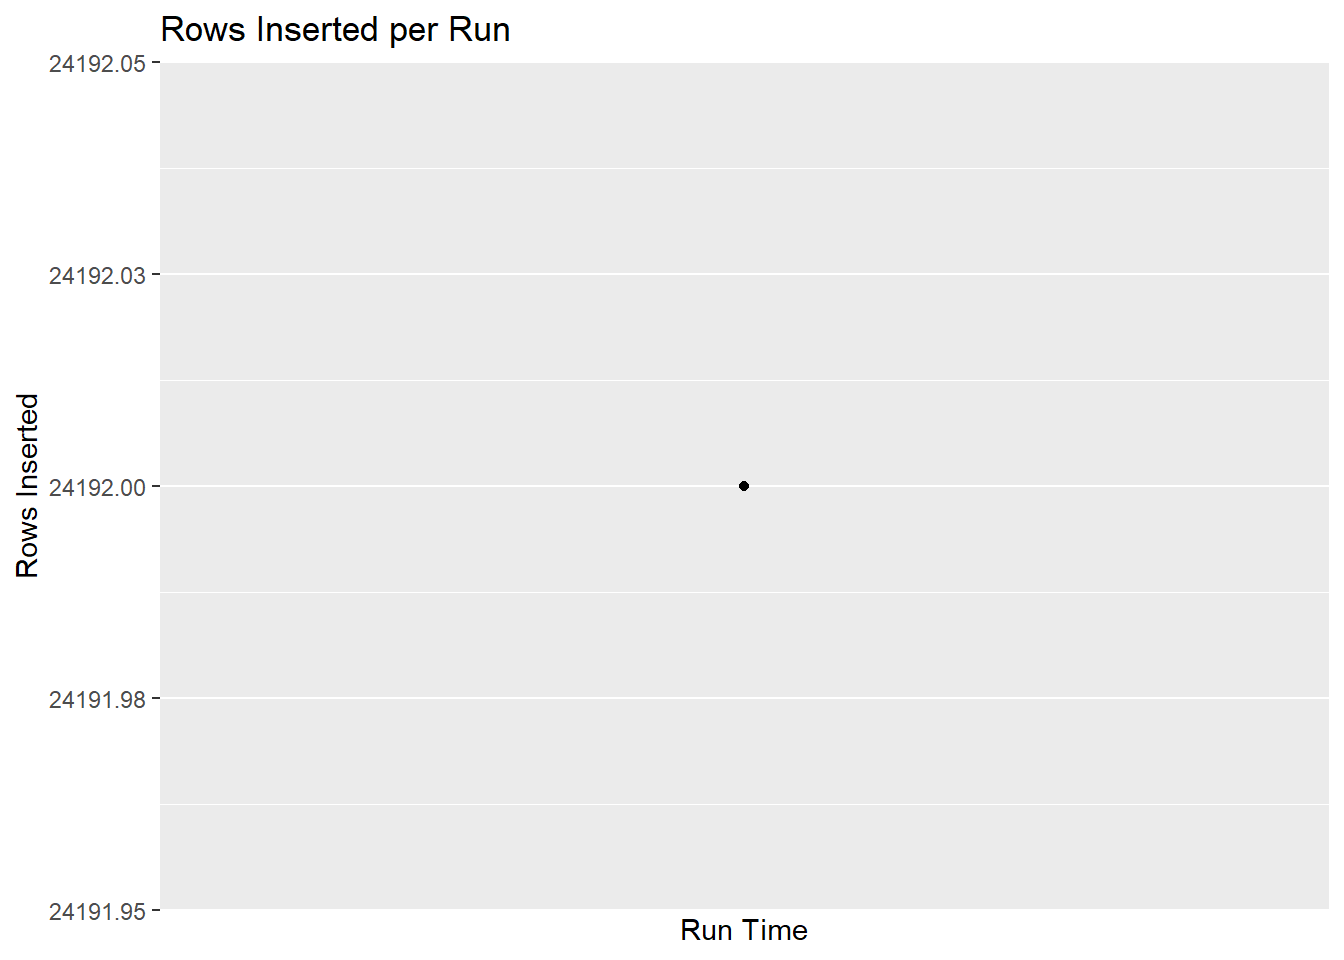
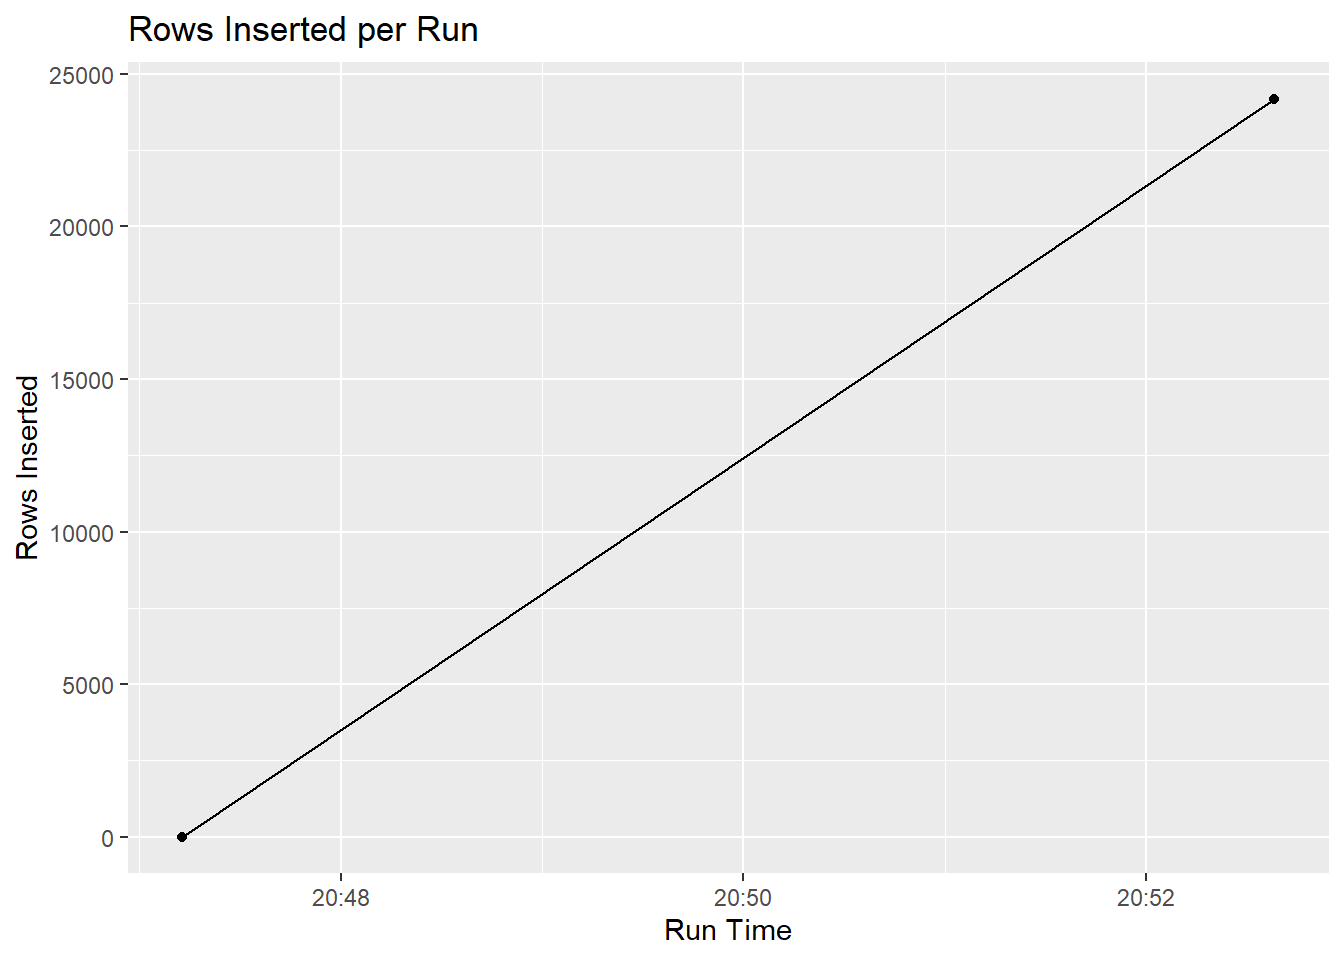
Corrected issues where database owner schema was not defined, causing errors on Posit Connect server, and changed staging table clearing workflow from TRUNCATE to DELETE to match irbs-posit SQL user permissions.
Includes test.qmd to list tables as test of irbs-posit permissions

diff --git a/append_fishtracks.html b/append_fishtracks.html
@@ -145,126 +145,151 @@ pre > code.sourceCode > span > a:first-child::before { text-decoration: underlin
 <span id="cb2-20"><a href="#cb2-20" aria-hidden="true" tabindex="-1"></a>  </span>
 <span id="cb2-21"><a href="#cb2-21" aria-hidden="true" tabindex="-1"></a>  <span class="fu">log_msg</span>(<span class="st">"Job started"</span>)</span>
 <span id="cb2-22"><a href="#cb2-22" aria-hidden="true" tabindex="-1"></a>  </span>
-<span id="cb2-23"><a href="#cb2-23" aria-hidden="true" tabindex="-1"></a>  <span class="co"># Connect to db</span></span>
-<span id="cb2-24"><a href="#cb2-24" aria-hidden="true" tabindex="-1"></a>  con <span class="ot">&lt;-</span> <span class="fu">dbConnect</span>(odbc<span class="sc">::</span><span class="fu">odbc</span>(), <span class="st">"Fish_Tracks_Real_Time"</span>)</span>
-<span id="cb2-25"><a href="#cb2-25" aria-hidden="true" tabindex="-1"></a>  <span class="fu">log_msg</span>(<span class="st">"Connected to database"</span>)</span>
-<span id="cb2-26"><a href="#cb2-26" aria-hidden="true" tabindex="-1"></a>  </span>
-<span id="cb2-27"><a href="#cb2-27" aria-hidden="true" tabindex="-1"></a>  <span class="co"># Get stations</span></span>
-<span id="cb2-28"><a href="#cb2-28" aria-hidden="true" tabindex="-1"></a>  tbl_station <span class="ot">&lt;-</span> <span class="fu">tbl</span>(con, <span class="st">"station"</span>) <span class="sc">%&gt;%</span> <span class="fu">collect</span>()</span>
-<span id="cb2-29"><a href="#cb2-29" aria-hidden="true" tabindex="-1"></a>  <span class="fu">log_msg</span>(<span class="fu">sprintf</span>(<span class="st">"Loaded %d stations"</span>, <span class="fu">nrow</span>(tbl_station)))</span>
-<span id="cb2-30"><a href="#cb2-30" aria-hidden="true" tabindex="-1"></a>  </span>
-<span id="cb2-31"><a href="#cb2-31" aria-hidden="true" tabindex="-1"></a>  </span>
-<span id="cb2-32"><a href="#cb2-32" aria-hidden="true" tabindex="-1"></a>  <span class="co"># Fetch data</span></span>
-<span id="cb2-33"><a href="#cb2-33" aria-hidden="true" tabindex="-1"></a>  DateRetrieved <span class="ot">=</span> <span class="fu">now</span>()</span>
-<span id="cb2-34"><a href="#cb2-34" aria-hidden="true" tabindex="-1"></a>  </span>
-<span id="cb2-35"><a href="#cb2-35" aria-hidden="true" tabindex="-1"></a>  </span>
-<span id="cb2-36"><a href="#cb2-36" aria-hidden="true" tabindex="-1"></a>  <span class="fu">log_msg</span>(<span class="st">"Fetching FishTracks data"</span>)</span>
-<span id="cb2-37"><a href="#cb2-37" aria-hidden="true" tabindex="-1"></a>  </span>
-<span id="cb2-38"><a href="#cb2-38" aria-hidden="true" tabindex="-1"></a>  compiled <span class="ot">&lt;-</span> <span class="fu">map_df</span>(tbl_station<span class="sc">$</span>station_id, <span class="cf">function</span>(id) {</span>
-<span id="cb2-39"><a href="#cb2-39" aria-hidden="true" tabindex="-1"></a>  <span class="fu">tryCatch</span>(</span>
-<span id="cb2-40"><a href="#cb2-40" aria-hidden="true" tabindex="-1"></a>    <span class="fu">get_fishtracks</span>(id),</span>
-<span id="cb2-41"><a href="#cb2-41" aria-hidden="true" tabindex="-1"></a>    <span class="at">error =</span> <span class="cf">function</span>(e) {</span>
-<span id="cb2-42"><a href="#cb2-42" aria-hidden="true" tabindex="-1"></a>      <span class="fu">log_msg</span>(<span class="fu">paste</span>(<span class="st">"Station failed:"</span>, id, <span class="st">"|"</span>, e<span class="sc">$</span>message), <span class="st">"WARN"</span>)</span>
-<span id="cb2-43"><a href="#cb2-43" aria-hidden="true" tabindex="-1"></a>      <span class="fu">return</span>(<span class="cn">NULL</span>)</span>
-<span id="cb2-44"><a href="#cb2-44" aria-hidden="true" tabindex="-1"></a>    }</span>
-<span id="cb2-45"><a href="#cb2-45" aria-hidden="true" tabindex="-1"></a>  )</span>
-<span id="cb2-46"><a href="#cb2-46" aria-hidden="true" tabindex="-1"></a>}) <span class="sc">%&gt;%</span></span>
-<span id="cb2-47"><a href="#cb2-47" aria-hidden="true" tabindex="-1"></a>    <span class="fu">mutate</span>(</span>
-<span id="cb2-48"><a href="#cb2-48" aria-hidden="true" tabindex="-1"></a>      <span class="at">DateRetrieved =</span> DateRetrieved,</span>
-<span id="cb2-49"><a href="#cb2-49" aria-hidden="true" tabindex="-1"></a>      <span class="at">DetectionID =</span> <span class="fu">paste</span>(station_id, Record, <span class="at">sep =</span> <span class="st">'_'</span>)</span>
-<span id="cb2-50"><a href="#cb2-50" aria-hidden="true" tabindex="-1"></a>    ) <span class="sc">%&gt;%</span></span>
-<span id="cb2-51"><a href="#cb2-51" aria-hidden="true" tabindex="-1"></a>    <span class="fu">relocate</span>(DetectionID)</span>
+<span id="cb2-23"><a href="#cb2-23" aria-hidden="true" tabindex="-1"></a>  <span class="co"># Connect to db, with intuitive error handling</span></span>
+<span id="cb2-24"><a href="#cb2-24" aria-hidden="true" tabindex="-1"></a>con <span class="ot">&lt;-</span> <span class="fu">tryCatch</span>({</span>
+<span id="cb2-25"><a href="#cb2-25" aria-hidden="true" tabindex="-1"></a></span>
+<span id="cb2-26"><a href="#cb2-26" aria-hidden="true" tabindex="-1"></a>  <span class="fu">dbConnect</span>(odbc<span class="sc">::</span><span class="fu">odbc</span>(), <span class="st">"Fish_Tracks_Real_Time"</span>)</span>
+<span id="cb2-27"><a href="#cb2-27" aria-hidden="true" tabindex="-1"></a></span>
+<span id="cb2-28"><a href="#cb2-28" aria-hidden="true" tabindex="-1"></a>}, <span class="at">error =</span> <span class="cf">function</span>(e) {</span>
+<span id="cb2-29"><a href="#cb2-29" aria-hidden="true" tabindex="-1"></a></span>
+<span id="cb2-30"><a href="#cb2-30" aria-hidden="true" tabindex="-1"></a>  <span class="fu">log_msg</span>(<span class="st">"Database connection failed"</span>, <span class="st">"ERROR"</span>)</span>
+<span id="cb2-31"><a href="#cb2-31" aria-hidden="true" tabindex="-1"></a></span>
+<span id="cb2-32"><a href="#cb2-32" aria-hidden="true" tabindex="-1"></a>  <span class="fu">log_msg</span>(<span class="fu">paste</span>(<span class="st">"ODBC error:"</span>, e<span class="sc">$</span>message), <span class="st">"ERROR"</span>)</span>
+<span id="cb2-33"><a href="#cb2-33" aria-hidden="true" tabindex="-1"></a></span>
+<span id="cb2-34"><a href="#cb2-34" aria-hidden="true" tabindex="-1"></a>  <span class="fu">stop</span>(</span>
+<span id="cb2-35"><a href="#cb2-35" aria-hidden="true" tabindex="-1"></a>    <span class="fu">paste</span>(</span>
+<span id="cb2-36"><a href="#cb2-36" aria-hidden="true" tabindex="-1"></a>      <span class="st">"Failed to connect to DSN 'Fish_Tracks_Real_Time'."</span>,</span>
+<span id="cb2-37"><a href="#cb2-37" aria-hidden="true" tabindex="-1"></a>      <span class="st">"Possible causes:"</span>,</span>
+<span id="cb2-38"><a href="#cb2-38" aria-hidden="true" tabindex="-1"></a>      <span class="st">"- DSN not defined on server"</span>,</span>
+<span id="cb2-39"><a href="#cb2-39" aria-hidden="true" tabindex="-1"></a>      <span class="st">"- Network / VPN issue"</span>,</span>
+<span id="cb2-40"><a href="#cb2-40" aria-hidden="true" tabindex="-1"></a>      <span class="st">"- SQL Server unavailable"</span>,</span>
+<span id="cb2-41"><a href="#cb2-41" aria-hidden="true" tabindex="-1"></a>      <span class="st">"- Credentials issue"</span>,</span>
+<span id="cb2-42"><a href="#cb2-42" aria-hidden="true" tabindex="-1"></a>      <span class="st">"</span><span class="sc">\n</span><span class="st">Original error:"</span>, e<span class="sc">$</span>message</span>
+<span id="cb2-43"><a href="#cb2-43" aria-hidden="true" tabindex="-1"></a>    )</span>
+<span id="cb2-44"><a href="#cb2-44" aria-hidden="true" tabindex="-1"></a>  )</span>
+<span id="cb2-45"><a href="#cb2-45" aria-hidden="true" tabindex="-1"></a>})</span>
+<span id="cb2-46"><a href="#cb2-46" aria-hidden="true" tabindex="-1"></a>  <span class="fu">log_msg</span>(<span class="st">"Connected to database"</span>)</span>
+<span id="cb2-47"><a href="#cb2-47" aria-hidden="true" tabindex="-1"></a>  </span>
+<span id="cb2-48"><a href="#cb2-48" aria-hidden="true" tabindex="-1"></a>  <span class="co"># Get stations</span></span>
+<span id="cb2-49"><a href="#cb2-49" aria-hidden="true" tabindex="-1"></a>  tbl_station <span class="ot">&lt;-</span> <span class="fu">tbl</span>(con, <span class="fu">Id</span>(<span class="at">schema =</span> <span class="st">'dbo'</span>, <span class="at">table =</span> <span class="st">"station"</span>)) <span class="sc">%&gt;%</span> <span class="fu">collect</span>()</span>
+<span id="cb2-50"><a href="#cb2-50" aria-hidden="true" tabindex="-1"></a>  <span class="fu">log_msg</span>(<span class="fu">sprintf</span>(<span class="st">"Loaded %d stations"</span>, <span class="fu">nrow</span>(tbl_station)))</span>
+<span id="cb2-51"><a href="#cb2-51" aria-hidden="true" tabindex="-1"></a>  </span>
 <span id="cb2-52"><a href="#cb2-52" aria-hidden="true" tabindex="-1"></a>  </span>
-<span id="cb2-53"><a href="#cb2-53" aria-hidden="true" tabindex="-1"></a>  </span>
-<span id="cb2-54"><a href="#cb2-54" aria-hidden="true" tabindex="-1"></a>  <span class="fu">log_msg</span>(<span class="fu">sprintf</span>(<span class="st">"Retrieved %d new records"</span>, <span class="fu">nrow</span>(compiled)))</span>
+<span id="cb2-53"><a href="#cb2-53" aria-hidden="true" tabindex="-1"></a>  <span class="co"># Fetch data</span></span>
+<span id="cb2-54"><a href="#cb2-54" aria-hidden="true" tabindex="-1"></a>  DateRetrieved <span class="ot">=</span> <span class="fu">now</span>()</span>
 <span id="cb2-55"><a href="#cb2-55" aria-hidden="true" tabindex="-1"></a>  </span>
-<span id="cb2-56"><a href="#cb2-56" aria-hidden="true" tabindex="-1"></a>  <span class="co"># Write new data to staging table</span></span>
-<span id="cb2-57"><a href="#cb2-57" aria-hidden="true" tabindex="-1"></a>  <span class="fu">dbWriteTable</span>(con,</span>
-<span id="cb2-58"><a href="#cb2-58" aria-hidden="true" tabindex="-1"></a>               <span class="at">name =</span> <span class="st">"staging_event"</span>,</span>
-<span id="cb2-59"><a href="#cb2-59" aria-hidden="true" tabindex="-1"></a>               <span class="at">value =</span> compiled,</span>
-<span id="cb2-60"><a href="#cb2-60" aria-hidden="true" tabindex="-1"></a>               <span class="at">overwrite =</span> <span class="cn">TRUE</span>)</span>
-<span id="cb2-61"><a href="#cb2-61" aria-hidden="true" tabindex="-1"></a>  </span>
-<span id="cb2-62"><a href="#cb2-62" aria-hidden="true" tabindex="-1"></a>  </span>
-<span id="cb2-63"><a href="#cb2-63" aria-hidden="true" tabindex="-1"></a>  <span class="fu">log_msg</span>(<span class="st">"Wrote staging table"</span>)</span>
-<span id="cb2-64"><a href="#cb2-64" aria-hidden="true" tabindex="-1"></a>  </span>
-<span id="cb2-65"><a href="#cb2-65" aria-hidden="true" tabindex="-1"></a>  <span class="co"># Append only new rows to events table</span></span>
-<span id="cb2-66"><a href="#cb2-66" aria-hidden="true" tabindex="-1"></a>  append_sql <span class="ot">&lt;-</span> <span class="st">"</span></span>
-<span id="cb2-67"><a href="#cb2-67" aria-hidden="true" tabindex="-1"></a><span class="st">INSERT INTO event</span></span>
-<span id="cb2-68"><a href="#cb2-68" aria-hidden="true" tabindex="-1"></a><span class="st">SELECT *</span></span>
-<span id="cb2-69"><a href="#cb2-69" aria-hidden="true" tabindex="-1"></a><span class="st">  FROM staging_event s</span></span>
-<span id="cb2-70"><a href="#cb2-70" aria-hidden="true" tabindex="-1"></a><span class="st">WHERE NOT EXISTS (SELECT 1</span></span>
-<span id="cb2-71"><a href="#cb2-71" aria-hidden="true" tabindex="-1"></a><span class="st">  FROM event t</span></span>
-<span id="cb2-72"><a href="#cb2-72" aria-hidden="true" tabindex="-1"></a><span class="st">  WHERE t.DetectionID = s.DetectionID)</span></span>
-<span id="cb2-73"><a href="#cb2-73" aria-hidden="true" tabindex="-1"></a></span>
-<span id="cb2-74"><a href="#cb2-74" aria-hidden="true" tabindex="-1"></a><span class="st">"</span></span>
-<span id="cb2-75"><a href="#cb2-75" aria-hidden="true" tabindex="-1"></a>  </span>
-<span id="cb2-76"><a href="#cb2-76" aria-hidden="true" tabindex="-1"></a>  rows_retrieved <span class="ot">&lt;-</span> <span class="fu">nrow</span>(compiled)</span>
-<span id="cb2-77"><a href="#cb2-77" aria-hidden="true" tabindex="-1"></a>  rows_inserted <span class="ot">&lt;-</span> <span class="fu">as.integer</span>(<span class="fu">dbExecute</span>(con, append_sql))</span>
-<span id="cb2-78"><a href="#cb2-78" aria-hidden="true" tabindex="-1"></a>  rows_skipped <span class="ot">&lt;-</span> rows_retrieved <span class="sc">-</span> rows_inserted</span>
-<span id="cb2-79"><a href="#cb2-79" aria-hidden="true" tabindex="-1"></a>  stations_retrieved <span class="ot">&lt;-</span> <span class="fu">length</span>(<span class="fu">unique</span>(compiled<span class="sc">$</span>station_id))</span>
-<span id="cb2-80"><a href="#cb2-80" aria-hidden="true" tabindex="-1"></a>  stations_lacking_data <span class="ot">&lt;-</span> <span class="fu">setdiff</span>(tbl_station<span class="sc">$</span>station_id, <span class="fu">unique</span>(compiled<span class="sc">$</span>station_id))</span>
-<span id="cb2-81"><a href="#cb2-81" aria-hidden="true" tabindex="-1"></a>  </span>
-<span id="cb2-82"><a href="#cb2-82" aria-hidden="true" tabindex="-1"></a>  timestamp <span class="ot">&lt;-</span> <span class="fu">Sys.time</span>()</span>
-<span id="cb2-83"><a href="#cb2-83" aria-hidden="true" tabindex="-1"></a>  </span>
-<span id="cb2-84"><a href="#cb2-84" aria-hidden="true" tabindex="-1"></a>  <span class="fu">log_msg</span>(<span class="fu">sprintf</span>(<span class="st">"Rows retrieved: %d"</span>, rows_retrieved))</span>
-<span id="cb2-85"><a href="#cb2-85" aria-hidden="true" tabindex="-1"></a>  <span class="fu">log_msg</span>(<span class="fu">sprintf</span>(<span class="st">"Rows inserted: %d"</span>, rows_inserted))</span>
-<span id="cb2-86"><a href="#cb2-86" aria-hidden="true" tabindex="-1"></a>  <span class="fu">log_msg</span>(<span class="fu">sprintf</span>(<span class="st">"Rows skipped: %d"</span>, rows_skipped))</span>
-<span id="cb2-87"><a href="#cb2-87" aria-hidden="true" tabindex="-1"></a>  <span class="fu">log_msg</span>(<span class="fu">sprintf</span>(<span class="st">"Stations retrieved: %d/%d"</span>, stations_retrieved, <span class="fu">length</span>(tbl_station<span class="sc">$</span>station_id)))  </span>
-<span id="cb2-88"><a href="#cb2-88" aria-hidden="true" tabindex="-1"></a>  <span class="fu">log_msg</span>(<span class="fu">paste</span>(<span class="st">"Station IDs not retrieved: "</span>, stations_lacking_data))</span>
-<span id="cb2-89"><a href="#cb2-89" aria-hidden="true" tabindex="-1"></a></span>
-<span id="cb2-90"><a href="#cb2-90" aria-hidden="true" tabindex="-1"></a></span>
-<span id="cb2-91"><a href="#cb2-91" aria-hidden="true" tabindex="-1"></a>  </span>
-<span id="cb2-92"><a href="#cb2-92" aria-hidden="true" tabindex="-1"></a>  <span class="co"># Log run to SQL log table</span></span>
-<span id="cb2-93"><a href="#cb2-93" aria-hidden="true" tabindex="-1"></a>  </span>
-<span id="cb2-94"><a href="#cb2-94" aria-hidden="true" tabindex="-1"></a><span class="fu">dbExecute</span>(</span>
-<span id="cb2-95"><a href="#cb2-95" aria-hidden="true" tabindex="-1"></a>  con,</span>
-<span id="cb2-96"><a href="#cb2-96" aria-hidden="true" tabindex="-1"></a>  <span class="st">"INSERT INTO insert_log (run_time, rows_inserted, rows_skipped) VALUES (?, ?, ?)"</span>,</span>
-<span id="cb2-97"><a href="#cb2-97" aria-hidden="true" tabindex="-1"></a>  <span class="at">params =</span> <span class="fu">list</span>(timestamp, rows_inserted, rows_skipped)</span>
-<span id="cb2-98"><a href="#cb2-98" aria-hidden="true" tabindex="-1"></a>)</span>
-<span id="cb2-99"><a href="#cb2-99" aria-hidden="true" tabindex="-1"></a></span>
+<span id="cb2-56"><a href="#cb2-56" aria-hidden="true" tabindex="-1"></a>  </span>
+<span id="cb2-57"><a href="#cb2-57" aria-hidden="true" tabindex="-1"></a>  <span class="fu">log_msg</span>(<span class="st">"Fetching FishTracks data"</span>)</span>
+<span id="cb2-58"><a href="#cb2-58" aria-hidden="true" tabindex="-1"></a>  </span>
+<span id="cb2-59"><a href="#cb2-59" aria-hidden="true" tabindex="-1"></a>  compiled <span class="ot">&lt;-</span> <span class="fu">map_df</span>(tbl_station<span class="sc">$</span>station_id, <span class="cf">function</span>(id) {</span>
+<span id="cb2-60"><a href="#cb2-60" aria-hidden="true" tabindex="-1"></a>  <span class="fu">tryCatch</span>(</span>
+<span id="cb2-61"><a href="#cb2-61" aria-hidden="true" tabindex="-1"></a>    <span class="fu">get_fishtracks</span>(id),</span>
+<span id="cb2-62"><a href="#cb2-62" aria-hidden="true" tabindex="-1"></a>    <span class="at">error =</span> <span class="cf">function</span>(e) {</span>
+<span id="cb2-63"><a href="#cb2-63" aria-hidden="true" tabindex="-1"></a>      <span class="fu">log_msg</span>(<span class="fu">paste</span>(<span class="st">"Station failed:"</span>, id, <span class="st">"|"</span>, e<span class="sc">$</span>message), <span class="st">"WARN"</span>)</span>
+<span id="cb2-64"><a href="#cb2-64" aria-hidden="true" tabindex="-1"></a>      <span class="fu">return</span>(<span class="cn">NULL</span>)</span>
+<span id="cb2-65"><a href="#cb2-65" aria-hidden="true" tabindex="-1"></a>    }</span>
+<span id="cb2-66"><a href="#cb2-66" aria-hidden="true" tabindex="-1"></a>  )</span>
+<span id="cb2-67"><a href="#cb2-67" aria-hidden="true" tabindex="-1"></a>}) <span class="sc">%&gt;%</span></span>
+<span id="cb2-68"><a href="#cb2-68" aria-hidden="true" tabindex="-1"></a>    <span class="fu">mutate</span>(</span>
+<span id="cb2-69"><a href="#cb2-69" aria-hidden="true" tabindex="-1"></a>      <span class="at">DateRetrieved =</span> DateRetrieved,</span>
+<span id="cb2-70"><a href="#cb2-70" aria-hidden="true" tabindex="-1"></a>      <span class="at">DetectionID =</span> <span class="fu">paste</span>(station_id, Record, <span class="at">sep =</span> <span class="st">'_'</span>)</span>
+<span id="cb2-71"><a href="#cb2-71" aria-hidden="true" tabindex="-1"></a>    ) <span class="sc">%&gt;%</span></span>
+<span id="cb2-72"><a href="#cb2-72" aria-hidden="true" tabindex="-1"></a>    <span class="fu">relocate</span>(DetectionID)</span>
+<span id="cb2-73"><a href="#cb2-73" aria-hidden="true" tabindex="-1"></a>  </span>
+<span id="cb2-74"><a href="#cb2-74" aria-hidden="true" tabindex="-1"></a>  </span>
+<span id="cb2-75"><a href="#cb2-75" aria-hidden="true" tabindex="-1"></a>  <span class="fu">log_msg</span>(<span class="fu">sprintf</span>(<span class="st">"Retrieved %d new records"</span>, <span class="fu">nrow</span>(compiled)))</span>
+<span id="cb2-76"><a href="#cb2-76" aria-hidden="true" tabindex="-1"></a>  </span>
+<span id="cb2-77"><a href="#cb2-77" aria-hidden="true" tabindex="-1"></a>  <span class="co"># Clear the staging table</span></span>
+<span id="cb2-78"><a href="#cb2-78" aria-hidden="true" tabindex="-1"></a>  <span class="fu">dbExecute</span>(con, <span class="st">"TRUNCATE TABLE dbo.staging_event"</span>)</span>
+<span id="cb2-79"><a href="#cb2-79" aria-hidden="true" tabindex="-1"></a>  <span class="co"># Write new data to staging table</span></span>
+<span id="cb2-80"><a href="#cb2-80" aria-hidden="true" tabindex="-1"></a><span class="fu">dbWriteTable</span>(</span>
+<span id="cb2-81"><a href="#cb2-81" aria-hidden="true" tabindex="-1"></a>  con,</span>
+<span id="cb2-82"><a href="#cb2-82" aria-hidden="true" tabindex="-1"></a>  <span class="fu">Id</span>(<span class="at">schema=</span><span class="st">"dbo"</span>, <span class="at">table=</span><span class="st">"staging_event"</span>),</span>
+<span id="cb2-83"><a href="#cb2-83" aria-hidden="true" tabindex="-1"></a>  <span class="at">value =</span> compiled,</span>
+<span id="cb2-84"><a href="#cb2-84" aria-hidden="true" tabindex="-1"></a>  <span class="at">append =</span> <span class="cn">TRUE</span></span>
+<span id="cb2-85"><a href="#cb2-85" aria-hidden="true" tabindex="-1"></a>)</span>
+<span id="cb2-86"><a href="#cb2-86" aria-hidden="true" tabindex="-1"></a>  </span>
+<span id="cb2-87"><a href="#cb2-87" aria-hidden="true" tabindex="-1"></a>  </span>
+<span id="cb2-88"><a href="#cb2-88" aria-hidden="true" tabindex="-1"></a>  <span class="fu">log_msg</span>(<span class="st">"Wrote staging table"</span>)</span>
+<span id="cb2-89"><a href="#cb2-89" aria-hidden="true" tabindex="-1"></a>  </span>
+<span id="cb2-90"><a href="#cb2-90" aria-hidden="true" tabindex="-1"></a>  <span class="co"># Append only new rows to events table</span></span>
+<span id="cb2-91"><a href="#cb2-91" aria-hidden="true" tabindex="-1"></a>  append_sql <span class="ot">&lt;-</span> <span class="st">"</span></span>
+<span id="cb2-92"><a href="#cb2-92" aria-hidden="true" tabindex="-1"></a><span class="st">INSERT INTO dbo.event</span></span>
+<span id="cb2-93"><a href="#cb2-93" aria-hidden="true" tabindex="-1"></a><span class="st">SELECT *</span></span>
+<span id="cb2-94"><a href="#cb2-94" aria-hidden="true" tabindex="-1"></a><span class="st">  FROM dbo.staging_event s</span></span>
+<span id="cb2-95"><a href="#cb2-95" aria-hidden="true" tabindex="-1"></a><span class="st">WHERE NOT EXISTS (SELECT 1</span></span>
+<span id="cb2-96"><a href="#cb2-96" aria-hidden="true" tabindex="-1"></a><span class="st">  FROM dbo.event t</span></span>
+<span id="cb2-97"><a href="#cb2-97" aria-hidden="true" tabindex="-1"></a><span class="st">  WHERE t.DetectionID = s.DetectionID)</span></span>
+<span id="cb2-98"><a href="#cb2-98" aria-hidden="true" tabindex="-1"></a></span>
+<span id="cb2-99"><a href="#cb2-99" aria-hidden="true" tabindex="-1"></a><span class="st">"</span></span>
 <span id="cb2-100"><a href="#cb2-100" aria-hidden="true" tabindex="-1"></a>  </span>
-<span id="cb2-101"><a href="#cb2-101" aria-hidden="true" tabindex="-1"></a>  </span>
-<span id="cb2-102"><a href="#cb2-102" aria-hidden="true" tabindex="-1"></a>  <span class="fu">log_msg</span>(<span class="st">"Logged run to database"</span>)</span>
-<span id="cb2-103"><a href="#cb2-103" aria-hidden="true" tabindex="-1"></a>  <span class="fu">log_msg</span>(<span class="st">"Job completed successfully"</span>, <span class="st">"SUCCESS"</span>)</span>
-<span id="cb2-104"><a href="#cb2-104" aria-hidden="true" tabindex="-1"></a>},</span>
-<span id="cb2-105"><a href="#cb2-105" aria-hidden="true" tabindex="-1"></a></span>
-<span id="cb2-106"><a href="#cb2-106" aria-hidden="true" tabindex="-1"></a><span class="co"># Handle errors with useful logging</span></span>
-<span id="cb2-107"><a href="#cb2-107" aria-hidden="true" tabindex="-1"></a><span class="at">error =</span> <span class="cf">function</span>(e){</span>
-<span id="cb2-108"><a href="#cb2-108" aria-hidden="true" tabindex="-1"></a></span>
-<span id="cb2-109"><a href="#cb2-109" aria-hidden="true" tabindex="-1"></a>  <span class="fu">log_msg</span>(<span class="fu">paste</span>(<span class="st">"ERROR:"</span>, e<span class="sc">$</span>message), <span class="st">"ERROR"</span>)</span>
-<span id="cb2-110"><a href="#cb2-110" aria-hidden="true" tabindex="-1"></a></span>
-<span id="cb2-111"><a href="#cb2-111" aria-hidden="true" tabindex="-1"></a>  <span class="co"># Safe defaults so logging doesn't fail</span></span>
-<span id="cb2-112"><a href="#cb2-112" aria-hidden="true" tabindex="-1"></a>  rows_inserted <span class="ot">&lt;&lt;-</span> <span class="cf">if</span> (<span class="sc">!</span><span class="fu">exists</span>(<span class="st">"rows_inserted"</span>)) <span class="cn">NA_integer_</span> <span class="cf">else</span> rows_inserted</span>
-<span id="cb2-113"><a href="#cb2-113" aria-hidden="true" tabindex="-1"></a>  rows_skipped  <span class="ot">&lt;&lt;-</span> <span class="cf">if</span> (<span class="sc">!</span><span class="fu">exists</span>(<span class="st">"rows_skipped"</span>))  <span class="cn">NA_integer_</span> <span class="cf">else</span> rows_skipped</span>
+<span id="cb2-101"><a href="#cb2-101" aria-hidden="true" tabindex="-1"></a>  rows_retrieved <span class="ot">&lt;-</span> <span class="fu">nrow</span>(compiled)</span>
+<span id="cb2-102"><a href="#cb2-102" aria-hidden="true" tabindex="-1"></a>  rows_inserted <span class="ot">&lt;-</span> <span class="fu">as.integer</span>(<span class="fu">dbExecute</span>(con, append_sql))</span>
+<span id="cb2-103"><a href="#cb2-103" aria-hidden="true" tabindex="-1"></a>  rows_skipped <span class="ot">&lt;-</span> rows_retrieved <span class="sc">-</span> rows_inserted</span>
+<span id="cb2-104"><a href="#cb2-104" aria-hidden="true" tabindex="-1"></a>  stations_retrieved <span class="ot">&lt;-</span> <span class="fu">length</span>(<span class="fu">unique</span>(compiled<span class="sc">$</span>station_id))</span>
+<span id="cb2-105"><a href="#cb2-105" aria-hidden="true" tabindex="-1"></a>  stations_lacking_data <span class="ot">&lt;-</span> <span class="fu">setdiff</span>(tbl_station<span class="sc">$</span>station_id, <span class="fu">unique</span>(compiled<span class="sc">$</span>station_id))</span>
+<span id="cb2-106"><a href="#cb2-106" aria-hidden="true" tabindex="-1"></a>  </span>
+<span id="cb2-107"><a href="#cb2-107" aria-hidden="true" tabindex="-1"></a>  timestamp <span class="ot">&lt;-</span> <span class="fu">Sys.time</span>()</span>
+<span id="cb2-108"><a href="#cb2-108" aria-hidden="true" tabindex="-1"></a>  </span>
+<span id="cb2-109"><a href="#cb2-109" aria-hidden="true" tabindex="-1"></a>  <span class="fu">log_msg</span>(<span class="fu">sprintf</span>(<span class="st">"Rows retrieved: %d"</span>, rows_retrieved))</span>
+<span id="cb2-110"><a href="#cb2-110" aria-hidden="true" tabindex="-1"></a>  <span class="fu">log_msg</span>(<span class="fu">sprintf</span>(<span class="st">"Rows inserted: %d"</span>, rows_inserted))</span>
+<span id="cb2-111"><a href="#cb2-111" aria-hidden="true" tabindex="-1"></a>  <span class="fu">log_msg</span>(<span class="fu">sprintf</span>(<span class="st">"Rows skipped: %d"</span>, rows_skipped))</span>
+<span id="cb2-112"><a href="#cb2-112" aria-hidden="true" tabindex="-1"></a>  <span class="fu">log_msg</span>(<span class="fu">sprintf</span>(<span class="st">"Stations retrieved: %d/%d"</span>, stations_retrieved, <span class="fu">length</span>(tbl_station<span class="sc">$</span>station_id)))  </span>
+<span id="cb2-113"><a href="#cb2-113" aria-hidden="true" tabindex="-1"></a>  <span class="fu">log_msg</span>(<span class="fu">paste</span>(<span class="st">"Station IDs not retrieved: "</span>, stations_lacking_data))</span>
 <span id="cb2-114"><a href="#cb2-114" aria-hidden="true" tabindex="-1"></a></span>
-<span id="cb2-115"><a href="#cb2-115" aria-hidden="true" tabindex="-1"></a>  <span class="co"># Try logging error to SQL</span></span>
-<span id="cb2-116"><a href="#cb2-116" aria-hidden="true" tabindex="-1"></a>  <span class="fu">try</span>({</span>
-<span id="cb2-117"><a href="#cb2-117" aria-hidden="true" tabindex="-1"></a>    <span class="cf">if</span> (<span class="fu">exists</span>(<span class="st">"con"</span>) <span class="sc">&amp;&amp;</span> <span class="fu">dbIsValid</span>(con)) {</span>
-<span id="cb2-118"><a href="#cb2-118" aria-hidden="true" tabindex="-1"></a></span>
-<span id="cb2-119"><a href="#cb2-119" aria-hidden="true" tabindex="-1"></a>      <span class="fu">dbExecute</span>(</span>
-<span id="cb2-120"><a href="#cb2-120" aria-hidden="true" tabindex="-1"></a>        con,</span>
-<span id="cb2-121"><a href="#cb2-121" aria-hidden="true" tabindex="-1"></a>        <span class="st">"INSERT INTO insert_log (run_time, rows_inserted, rows_skipped) VALUES (?, ?, ?)"</span>,</span>
-<span id="cb2-122"><a href="#cb2-122" aria-hidden="true" tabindex="-1"></a>        <span class="at">params =</span> <span class="fu">list</span>(<span class="fu">Sys.time</span>(), rows_inserted, rows_skipped)</span>
-<span id="cb2-123"><a href="#cb2-123" aria-hidden="true" tabindex="-1"></a>      )</span>
+<span id="cb2-115"><a href="#cb2-115" aria-hidden="true" tabindex="-1"></a></span>
+<span id="cb2-116"><a href="#cb2-116" aria-hidden="true" tabindex="-1"></a>  </span>
+<span id="cb2-117"><a href="#cb2-117" aria-hidden="true" tabindex="-1"></a>  <span class="co"># Log run to SQL log table</span></span>
+<span id="cb2-118"><a href="#cb2-118" aria-hidden="true" tabindex="-1"></a>  </span>
+<span id="cb2-119"><a href="#cb2-119" aria-hidden="true" tabindex="-1"></a><span class="fu">dbExecute</span>(</span>
+<span id="cb2-120"><a href="#cb2-120" aria-hidden="true" tabindex="-1"></a>  con,</span>
+<span id="cb2-121"><a href="#cb2-121" aria-hidden="true" tabindex="-1"></a>  <span class="st">"INSERT INTO dbo.insert_log (run_time, rows_inserted, rows_skipped) VALUES (?, ?, ?)"</span>,</span>
+<span id="cb2-122"><a href="#cb2-122" aria-hidden="true" tabindex="-1"></a>  <span class="at">params =</span> <span class="fu">list</span>(timestamp, rows_inserted, rows_skipped)</span>
+<span id="cb2-123"><a href="#cb2-123" aria-hidden="true" tabindex="-1"></a>)</span>
 <span id="cb2-124"><a href="#cb2-124" aria-hidden="true" tabindex="-1"></a></span>
-<span id="cb2-125"><a href="#cb2-125" aria-hidden="true" tabindex="-1"></a>      <span class="fu">dbDisconnect</span>(con)</span>
-<span id="cb2-126"><a href="#cb2-126" aria-hidden="true" tabindex="-1"></a>    }</span>
-<span id="cb2-127"><a href="#cb2-127" aria-hidden="true" tabindex="-1"></a>  }, <span class="at">silent =</span> <span class="cn">TRUE</span>)</span>
-<span id="cb2-128"><a href="#cb2-128" aria-hidden="true" tabindex="-1"></a></span>
-<span id="cb2-129"><a href="#cb2-129" aria-hidden="true" tabindex="-1"></a>  <span class="co"># IMPORTANT: print full condition so Quarto shows it</span></span>
-<span id="cb2-130"><a href="#cb2-130" aria-hidden="true" tabindex="-1"></a>  <span class="fu">message</span>(<span class="st">"Full error:"</span>)</span>
-<span id="cb2-131"><a href="#cb2-131" aria-hidden="true" tabindex="-1"></a>  <span class="fu">print</span>(e)</span>
-<span id="cb2-132"><a href="#cb2-132" aria-hidden="true" tabindex="-1"></a></span>
-<span id="cb2-133"><a href="#cb2-133" aria-hidden="true" tabindex="-1"></a>  <span class="co"># Re-throw so Connect marks failure</span></span>
-<span id="cb2-134"><a href="#cb2-134" aria-hidden="true" tabindex="-1"></a>  <span class="fu">stop</span>(e)</span>
-<span id="cb2-135"><a href="#cb2-135" aria-hidden="true" tabindex="-1"></a>}</span>
-<span id="cb2-136"><a href="#cb2-136" aria-hidden="true" tabindex="-1"></a>)</span></code><button title="Copy to Clipboard" class="code-copy-button"><i class="bi"></i></button></pre></div>
+<span id="cb2-125"><a href="#cb2-125" aria-hidden="true" tabindex="-1"></a>  </span>
+<span id="cb2-126"><a href="#cb2-126" aria-hidden="true" tabindex="-1"></a>  </span>
+<span id="cb2-127"><a href="#cb2-127" aria-hidden="true" tabindex="-1"></a>  <span class="fu">log_msg</span>(<span class="st">"Logged run to database"</span>)</span>
+<span id="cb2-128"><a href="#cb2-128" aria-hidden="true" tabindex="-1"></a>  <span class="fu">log_msg</span>(<span class="st">"Job completed successfully"</span>, <span class="st">"SUCCESS"</span>)</span>
+<span id="cb2-129"><a href="#cb2-129" aria-hidden="true" tabindex="-1"></a>},</span>
+<span id="cb2-130"><a href="#cb2-130" aria-hidden="true" tabindex="-1"></a></span>
+<span id="cb2-131"><a href="#cb2-131" aria-hidden="true" tabindex="-1"></a><span class="co"># Handle errors with useful logging</span></span>
+<span id="cb2-132"><a href="#cb2-132" aria-hidden="true" tabindex="-1"></a><span class="at">error =</span> <span class="cf">function</span>(e){</span>
+<span id="cb2-133"><a href="#cb2-133" aria-hidden="true" tabindex="-1"></a></span>
+<span id="cb2-134"><a href="#cb2-134" aria-hidden="true" tabindex="-1"></a>  <span class="fu">log_msg</span>(<span class="fu">paste</span>(<span class="st">"ERROR:"</span>, e<span class="sc">$</span>message), <span class="st">"ERROR"</span>)</span>
+<span id="cb2-135"><a href="#cb2-135" aria-hidden="true" tabindex="-1"></a></span>
+<span id="cb2-136"><a href="#cb2-136" aria-hidden="true" tabindex="-1"></a>  <span class="co"># Safe defaults so logging doesn't fail</span></span>
+<span id="cb2-137"><a href="#cb2-137" aria-hidden="true" tabindex="-1"></a>  rows_inserted <span class="ot">&lt;&lt;-</span> <span class="cf">if</span> (<span class="sc">!</span><span class="fu">exists</span>(<span class="st">"rows_inserted"</span>)) <span class="cn">NA_integer_</span> <span class="cf">else</span> rows_inserted</span>
+<span id="cb2-138"><a href="#cb2-138" aria-hidden="true" tabindex="-1"></a>  rows_skipped  <span class="ot">&lt;&lt;-</span> <span class="cf">if</span> (<span class="sc">!</span><span class="fu">exists</span>(<span class="st">"rows_skipped"</span>))  <span class="cn">NA_integer_</span> <span class="cf">else</span> rows_skipped</span>
+<span id="cb2-139"><a href="#cb2-139" aria-hidden="true" tabindex="-1"></a></span>
+<span id="cb2-140"><a href="#cb2-140" aria-hidden="true" tabindex="-1"></a>  <span class="co"># Try logging error to SQL</span></span>
+<span id="cb2-141"><a href="#cb2-141" aria-hidden="true" tabindex="-1"></a>  <span class="fu">try</span>({</span>
+<span id="cb2-142"><a href="#cb2-142" aria-hidden="true" tabindex="-1"></a>    <span class="cf">if</span> (<span class="fu">exists</span>(<span class="st">"con"</span>) <span class="sc">&amp;&amp;</span> <span class="fu">dbIsValid</span>(con)) {</span>
+<span id="cb2-143"><a href="#cb2-143" aria-hidden="true" tabindex="-1"></a></span>
+<span id="cb2-144"><a href="#cb2-144" aria-hidden="true" tabindex="-1"></a>      <span class="fu">dbExecute</span>(</span>
+<span id="cb2-145"><a href="#cb2-145" aria-hidden="true" tabindex="-1"></a>        con,</span>
+<span id="cb2-146"><a href="#cb2-146" aria-hidden="true" tabindex="-1"></a>        <span class="st">"INSERT INTO dbo.insert_log (run_time, rows_inserted, rows_skipped) VALUES (?, ?, ?)"</span>,</span>
+<span id="cb2-147"><a href="#cb2-147" aria-hidden="true" tabindex="-1"></a>        <span class="at">params =</span> <span class="fu">list</span>(<span class="fu">Sys.time</span>(), rows_inserted, rows_skipped)</span>
+<span id="cb2-148"><a href="#cb2-148" aria-hidden="true" tabindex="-1"></a>      )</span>
+<span id="cb2-149"><a href="#cb2-149" aria-hidden="true" tabindex="-1"></a></span>
+<span id="cb2-150"><a href="#cb2-150" aria-hidden="true" tabindex="-1"></a>      <span class="fu">dbDisconnect</span>(con)</span>
+<span id="cb2-151"><a href="#cb2-151" aria-hidden="true" tabindex="-1"></a>    }</span>
+<span id="cb2-152"><a href="#cb2-152" aria-hidden="true" tabindex="-1"></a>  }, <span class="at">silent =</span> <span class="cn">TRUE</span>)</span>
+<span id="cb2-153"><a href="#cb2-153" aria-hidden="true" tabindex="-1"></a></span>
+<span id="cb2-154"><a href="#cb2-154" aria-hidden="true" tabindex="-1"></a>  <span class="co"># IMPORTANT: print full condition so Quarto shows it</span></span>
+<span id="cb2-155"><a href="#cb2-155" aria-hidden="true" tabindex="-1"></a>  <span class="fu">message</span>(<span class="st">"Full error:"</span>)</span>
+<span id="cb2-156"><a href="#cb2-156" aria-hidden="true" tabindex="-1"></a>  <span class="fu">print</span>(e)</span>
+<span id="cb2-157"><a href="#cb2-157" aria-hidden="true" tabindex="-1"></a></span>
+<span id="cb2-158"><a href="#cb2-158" aria-hidden="true" tabindex="-1"></a>  <span class="co"># Re-throw so Connect marks failure</span></span>
+<span id="cb2-159"><a href="#cb2-159" aria-hidden="true" tabindex="-1"></a>  <span class="fu">stop</span>(e)</span>
+<span id="cb2-160"><a href="#cb2-160" aria-hidden="true" tabindex="-1"></a>}</span>
+<span id="cb2-161"><a href="#cb2-161" aria-hidden="true" tabindex="-1"></a>)</span></code><button title="Copy to Clipboard" class="code-copy-button"><i class="bi"></i></button></pre></div>
 </details>
 <div class="cell-output cell-output-stdout">
-<pre><code>[2026-06-25 14:18:08.862501] [INFO] Job started
-[2026-06-25 14:18:09.193916] [INFO] Connected to database
-[2026-06-25 14:18:09.557229] [INFO] Loaded 14 stations
-[2026-06-25 14:18:09.55867] [INFO] Fetching FishTracks data</code></pre>
+<pre><code>[2026-06-25 15:51:51.856911] [INFO] Job started
+[2026-06-25 15:51:52.179091] [INFO] Connected to database
+[2026-06-25 15:51:52.44496] [INFO] Loaded 13 stations
+[2026-06-25 15:51:52.445959] [INFO] Fetching FishTracks data</code></pre>
 </div>
 <div class="cell-output cell-output-stderr">
 <pre><code>Station ID 05536890: 2,016 rows successfully retrieved.</code></pre>
@@ -280,11 +305,6 @@ pre > code.sourceCode > span > a:first-child::before { text-decoration: underlin
 </div>
 <div class="cell-output cell-output-stderr">
 <pre><code>Station ID 05541498: 2,016 rows successfully retrieved.</code></pre>
-</div>
-<div class="cell-output cell-output-stdout">
-<pre><code>[2026-06-25 14:18:29.388337] [WARN] Station failed: 1 | Failed to access CSV URL:
- https://cm.water.usgs.gov/data/Fish_Tracks_Real_Time/1.csv
-The resource does not exist or is unreachable.</code></pre>
 </div>
 <div class="cell-output cell-output-stderr">
 <pre><code>Station ID 411133091003401: 2,016 rows successfully retrieved.</code></pre>
@@ -315,16 +335,15 @@ The resource does not exist or is unreachable.</code></pre>
 <pre><code>Station ID 412957090371001: 0 rows successfully retrieved.</code></pre>
 </div>
 <div class="cell-output cell-output-stdout">
-<pre><code>[2026-06-25 14:18:50.652751] [INFO] Retrieved 24192 new records
-[2026-06-25 14:18:53.177699] [INFO] Wrote staging table
-[2026-06-25 14:18:53.721444] [INFO] Rows retrieved: 24192
-[2026-06-25 14:18:53.721946] [INFO] Rows inserted: 24192
-[2026-06-25 14:18:53.732192] [INFO] Rows skipped: 0
-[2026-06-25 14:18:53.732635] [INFO] Stations retrieved: 12/14
-[2026-06-25 14:18:53.732894] [INFO] Station IDs not retrieved:  1
- [2026-06-25 14:18:53.732894] [INFO] Station IDs not retrieved:  412957090371001
-[2026-06-25 14:18:53.818257] [INFO] Logged run to database
-[2026-06-25 14:18:53.818953] [SUCCESS] Job completed successfully</code></pre>
+<pre><code>[2026-06-25 15:52:35.35008] [INFO] Retrieved 24192 new records
+[2026-06-25 15:52:37.885248] [INFO] Wrote staging table
+[2026-06-25 15:52:38.1894] [INFO] Rows retrieved: 24192
+[2026-06-25 15:52:38.189944] [INFO] Rows inserted: 24192
+[2026-06-25 15:52:38.190258] [INFO] Rows skipped: 0
+[2026-06-25 15:52:38.190537] [INFO] Stations retrieved: 12/13
+[2026-06-25 15:52:38.190814] [INFO] Station IDs not retrieved:  412957090371001
+[2026-06-25 15:52:38.283421] [INFO] Logged run to database
+[2026-06-25 15:52:38.283872] [SUCCESS] Job completed successfully</code></pre>
 </div>
 </div>
 </section>
@@ -335,10 +354,10 @@ The resource does not exist or is unreachable.</code></pre>
 <section id="run-summary" class="level2">
 <h2 class="anchored" data-anchor-id="run-summary">Run Summary</h2>
 <ul>
-<li><strong>Run time:</strong> 2026-06-25 14:18:53</li>
-<li><strong>Stations queried:</strong> 14</li>
+<li><strong>Run time:</strong> 2026-06-25 15:52:38</li>
+<li><strong>Stations queried:</strong> 13</li>
 <li><strong>Stations Retrieved:</strong> 12</li>
-<li><strong>Station IDs lacking data:</strong> 1, 412957090371001</li>
+<li><strong>Station IDs lacking data:</strong> 412957090371001</li>
 <li><strong>Rows retrieved:</strong> 24192</li>
 <li><strong>Rows inserted:</strong> 24192</li>
 <li><strong>Rows skipped (duplicates):</strong> 0</li>
@@ -349,24 +368,20 @@ The resource does not exist or is unreachable.</code></pre>
 <div class="cell">
 <details class="code-fold">
 <summary>Show code</summary>
-<div class="sourceCode cell-code" id="cb20"><pre class="sourceCode r code-with-copy"><code class="sourceCode r"><span id="cb20-1"><a href="#cb20-1" aria-hidden="true" tabindex="-1"></a>log_data <span class="ot">&lt;-</span> <span class="fu">tbl</span>(con, <span class="st">"insert_log"</span>) <span class="sc">%&gt;%</span></span>
-<span id="cb20-2"><a href="#cb20-2" aria-hidden="true" tabindex="-1"></a>  <span class="fu">collect</span>()</span>
-<span id="cb20-3"><a href="#cb20-3" aria-hidden="true" tabindex="-1"></a></span>
-<span id="cb20-4"><a href="#cb20-4" aria-hidden="true" tabindex="-1"></a><span class="fu">library</span>(ggplot2)</span>
-<span id="cb20-5"><a href="#cb20-5" aria-hidden="true" tabindex="-1"></a></span>
-<span id="cb20-6"><a href="#cb20-6" aria-hidden="true" tabindex="-1"></a><span class="fu">ggplot</span>(log_data, <span class="fu">aes</span>(run_time, rows_inserted)) <span class="sc">+</span></span>
-<span id="cb20-7"><a href="#cb20-7" aria-hidden="true" tabindex="-1"></a>  <span class="fu">geom_line</span>() <span class="sc">+</span></span>
-<span id="cb20-8"><a href="#cb20-8" aria-hidden="true" tabindex="-1"></a>  <span class="fu">geom_point</span>() <span class="sc">+</span></span>
-<span id="cb20-9"><a href="#cb20-9" aria-hidden="true" tabindex="-1"></a>  <span class="fu">labs</span>(</span>
-<span id="cb20-10"><a href="#cb20-10" aria-hidden="true" tabindex="-1"></a>    <span class="at">title =</span> <span class="st">"Rows Inserted per Run"</span>,</span>
-<span id="cb20-11"><a href="#cb20-11" aria-hidden="true" tabindex="-1"></a>    <span class="at">x =</span> <span class="st">"Run Time"</span>,</span>
-<span id="cb20-12"><a href="#cb20-12" aria-hidden="true" tabindex="-1"></a>    <span class="at">y =</span> <span class="st">"Rows Inserted"</span></span>
-<span id="cb20-13"><a href="#cb20-13" aria-hidden="true" tabindex="-1"></a>  )</span></code><button title="Copy to Clipboard" class="code-copy-button"><i class="bi"></i></button></pre></div>
+<div class="sourceCode cell-code" id="cb19"><pre class="sourceCode r code-with-copy"><code class="sourceCode r"><span id="cb19-1"><a href="#cb19-1" aria-hidden="true" tabindex="-1"></a>log_data <span class="ot">&lt;-</span> <span class="fu">tbl</span>(con, <span class="fu">Id</span>(<span class="at">schema =</span> <span class="st">"dbo"</span>, <span class="at">table =</span> <span class="st">"insert_log"</span>)) <span class="sc">%&gt;%</span></span>
+<span id="cb19-2"><a href="#cb19-2" aria-hidden="true" tabindex="-1"></a>  <span class="fu">collect</span>()</span>
+<span id="cb19-3"><a href="#cb19-3" aria-hidden="true" tabindex="-1"></a></span>
+<span id="cb19-4"><a href="#cb19-4" aria-hidden="true" tabindex="-1"></a><span class="fu">library</span>(ggplot2)</span>
+<span id="cb19-5"><a href="#cb19-5" aria-hidden="true" tabindex="-1"></a></span>
+<span id="cb19-6"><a href="#cb19-6" aria-hidden="true" tabindex="-1"></a><span class="fu">ggplot</span>(log_data, <span class="fu">aes</span>(run_time, rows_inserted)) <span class="sc">+</span></span>
+<span id="cb19-7"><a href="#cb19-7" aria-hidden="true" tabindex="-1"></a>  <span class="fu">geom_line</span>() <span class="sc">+</span></span>
+<span id="cb19-8"><a href="#cb19-8" aria-hidden="true" tabindex="-1"></a>  <span class="fu">geom_point</span>() <span class="sc">+</span></span>
+<span id="cb19-9"><a href="#cb19-9" aria-hidden="true" tabindex="-1"></a>  <span class="fu">labs</span>(</span>
+<span id="cb19-10"><a href="#cb19-10" aria-hidden="true" tabindex="-1"></a>    <span class="at">title =</span> <span class="st">"Rows Inserted per Run"</span>,</span>
+<span id="cb19-11"><a href="#cb19-11" aria-hidden="true" tabindex="-1"></a>    <span class="at">x =</span> <span class="st">"Run Time"</span>,</span>
+<span id="cb19-12"><a href="#cb19-12" aria-hidden="true" tabindex="-1"></a>    <span class="at">y =</span> <span class="st">"Rows Inserted"</span></span>
+<span id="cb19-13"><a href="#cb19-13" aria-hidden="true" tabindex="-1"></a>  )</span></code><button title="Copy to Clipboard" class="code-copy-button"><i class="bi"></i></button></pre></div>
 </details>
-<div class="cell-output cell-output-stderr">
-<pre><code>`geom_line()`: Each group consists of only one observation.
-ℹ Do you need to adjust the group aesthetic?</code></pre>
-</div>
 <div class="cell-output-display">
 <div>
 <figure class="figure">
@@ -376,8 +391,8 @@ The resource does not exist or is unreachable.</code></pre>
 </div>
 <details class="code-fold">
 <summary>Show code</summary>
-<div class="sourceCode cell-code" id="cb22"><pre class="sourceCode r code-with-copy"><code class="sourceCode r"><span id="cb22-1"><a href="#cb22-1" aria-hidden="true" tabindex="-1"></a><span class="co"># Disconnect</span></span>
-<span id="cb22-2"><a href="#cb22-2" aria-hidden="true" tabindex="-1"></a><span class="fu">dbDisconnect</span>(con)</span></code><button title="Copy to Clipboard" class="code-copy-button"><i class="bi"></i></button></pre></div>
+<div class="sourceCode cell-code" id="cb20"><pre class="sourceCode r code-with-copy"><code class="sourceCode r"><span id="cb20-1"><a href="#cb20-1" aria-hidden="true" tabindex="-1"></a><span class="co"># Disconnect</span></span>
+<span id="cb20-2"><a href="#cb20-2" aria-hidden="true" tabindex="-1"></a><span class="fu">dbDisconnect</span>(con)</span></code><button title="Copy to Clipboard" class="code-copy-button"><i class="bi"></i></button></pre></div>
 </details>
 </div>
 </section>